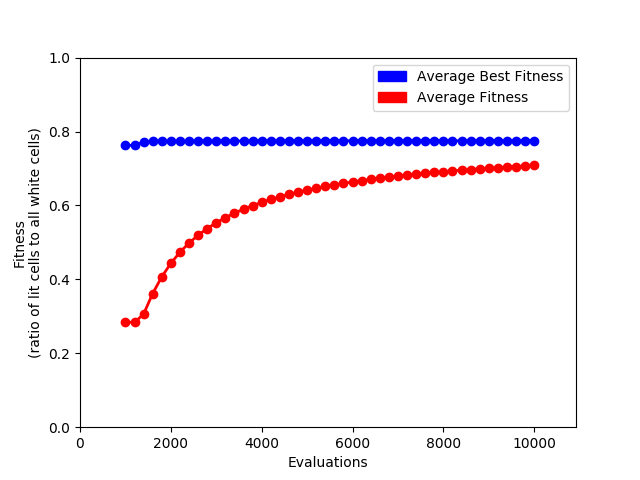
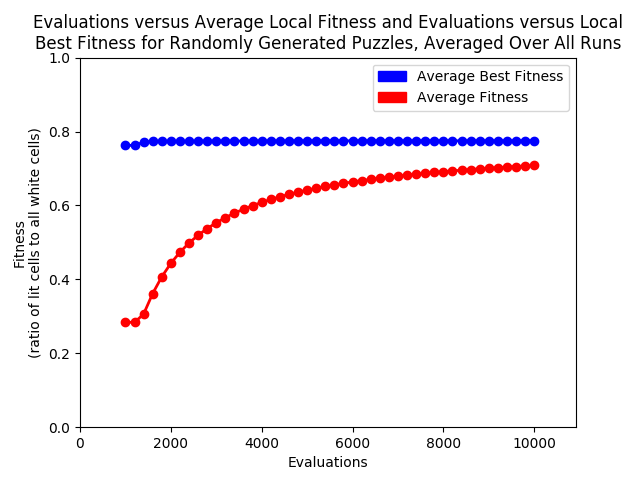
Clean up graphing

Changed region(s): [[0.0312, 0.0312, 0.9688, 0.125]]

diff --git a/gen_graphs/gen_graphs.py b/gen_graphs/gen_graphs.py
@@ -4,82 +4,98 @@ import matplotlib.pyplot as plt
 import matplotlib.patches as mpatches
 import numpy as np
 
-log_files = ['../output/random_gen_log.txt', '../output/website_puzzle_log.txt']
+log_file_paths = ['../output/random_gen_log.txt', '../output/website_puzzle_log.txt']
+graph_titles = ['Randomly Generated Puzzles', 'Provided Puzzle']
 
-for log_file in log_files:
-    with open(log_file, 'r') as file:
-        file = file.read().split('\n')
-        file = [line for line in file[file.index('Run 1'):] if not line == '']
+for q in range(len(log_file_paths)):
+    with open(log_file_paths[q], 'r') as log_file:
+        # Create a list of lines from the log file, disregarding all config parmeters and empty lines
+        log_file = log_file.read().split('\n')
+        log_file = [line for line in log_file[log_file.index('Run 1'):] if not line == '']
+
         evals = []
-        fitnesses = []
-        best_fitnesses = []
-
         curr_evals = []
-        curr_fitnesses = []
-        curr_best_fitnesses = []
+        fits = []
+        curr_fits = []
+        best_fits = []
+        curr_best_fits = []
 
         curr_run = 1
 
-        for line in file:
+        # Segregate data from log file into appropriate lists
+        for line in log_file:
             if line[0] == 'R':
+                # This line has a run update
                 line = line.split()
                 run = int(line[1])
                 
                 if run > curr_run:
+                    # A new run has been encountered. Append the curr_* lists
                     curr_run = run
                     evals.append(curr_evals)
-                    fitnesses.append(curr_fitnesses)
-                    best_fitnesses.append(curr_best_fitnesses)
+                    fits.append(curr_fits)
+                    best_fits.append(curr_best_fits)
 
+                    # Reset the curr_* lists
                     curr_evals = []
-                    curr_fitnesses = []
-                    curr_best_fitnesses = []
+                    curr_fits = []
+                    curr_best_fits = []
 
             else:
+                # This line has eval and fitness data
                 line = line.split('\t')
 
+                # Append to the curr_* lists
                 curr_evals.append(int(line[0]))
-                curr_fitnesses.append(float(line[1]))
-                curr_best_fitnesses.append(float(line[2]))
+                curr_fits.append(float(line[1]))
+                curr_best_fits.append(float(line[2]))
         
+
         num_entries = len(evals)
-        lists = [evals, fitnesses, best_fitnesses]
+        experiment_data = [evals, fits, best_fits]
 
         # Average all values together
         # Condense the 2D lists into 1D
-        for l in range(len(lists)):
-            new = []
+        for k in range(len(experiment_data)):
+            avg = []
 
-            for i in range(len(lists[l][0])):
+            for i in range(len(experiment_data[k][0])):
                 summation = 0
 
-                for sub_l in lists[l]:
-                    summation += sub_l[i]
+                # Sum all data items in the slice of experiment data
+                for data_item in experiment_data[k]:
+                    summation += data_item[i]
                 
-                new.append(summation / num_entries)
+                # Average the data
+                avg.append(summation / num_entries)
         
-            lists[l] = new
+            # Replace the original data with the averaged version
+            experiment_data[k] = avg
 
-        eval_list = lists[0]
-        fitness_list = lists[1]
-        best_fitness_list = lists[2]
 
-        # Graph the result
-        plt.plot(eval_list, fitness_list, '-ro', linewidth = 2.0)
-        plt.plot(eval_list, best_fitness_list, '-bo', linewidth = 2.0)
+        # Reassign list names for clarity
+        evals = experiment_data[0]
+        fits = experiment_data[1]
+        best_fits = experiment_data[2]
+
+        # Plot the results
+        plt.plot(evals, fits, '-ro', linewidth = 2.0)
+        plt.plot(evals, best_fits, '-bo', linewidth = 2.0)
 
         plt.ylim(0, 1)
-        plt.xlim(0, eval_list[-1] + (len(eval_list) * 20))
+        plt.xlim(0, evals[-1] + (len(evals) * 20))
 
         red_patch = mpatches.Patch(color='red', label='Average Fitness')
         blue_patch = mpatches.Patch(color='blue', label='Average Best Fitness')
         plt.legend(handles=[blue_patch, red_patch])
+
+        plt.title('Evaluations versus Average Local Fitness and Evaluations versus Local\nBest Fitness for ' + graph_titles[q] + ', Averaged Over All Runs')
 
         # Include necessary labels
         plt.xlabel('Evaluations')
         plt.ylabel('Fitness\n(ratio of lit cells to all white cells)')
 
         # Save and close the plot
-        plt.savefig(log_file[:log_file.find('log')] + 'graph.png')
+        plt.savefig(log_file_paths[q][:log_file_paths[q].find('log')] + 'graph.png')
         plt.close()
             
